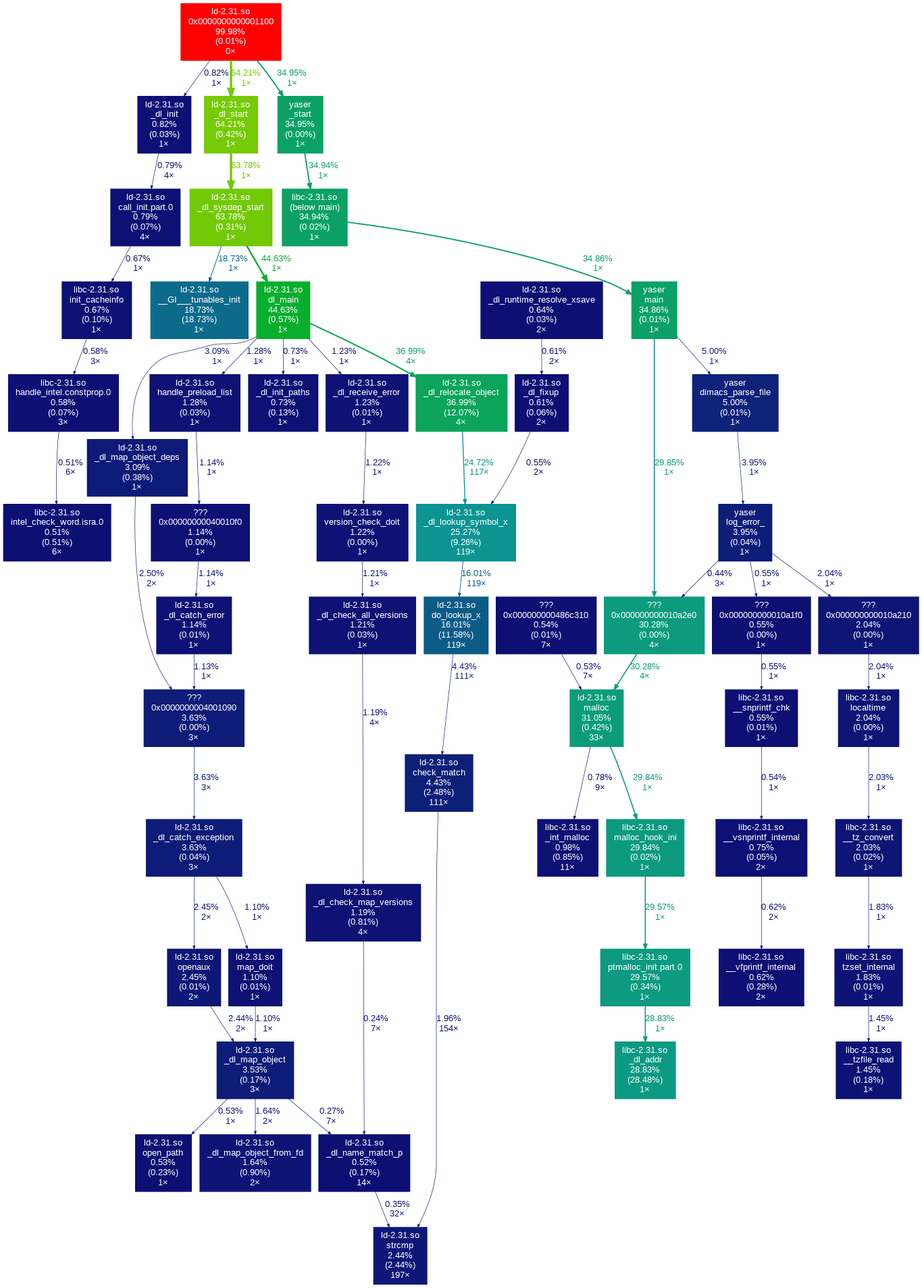
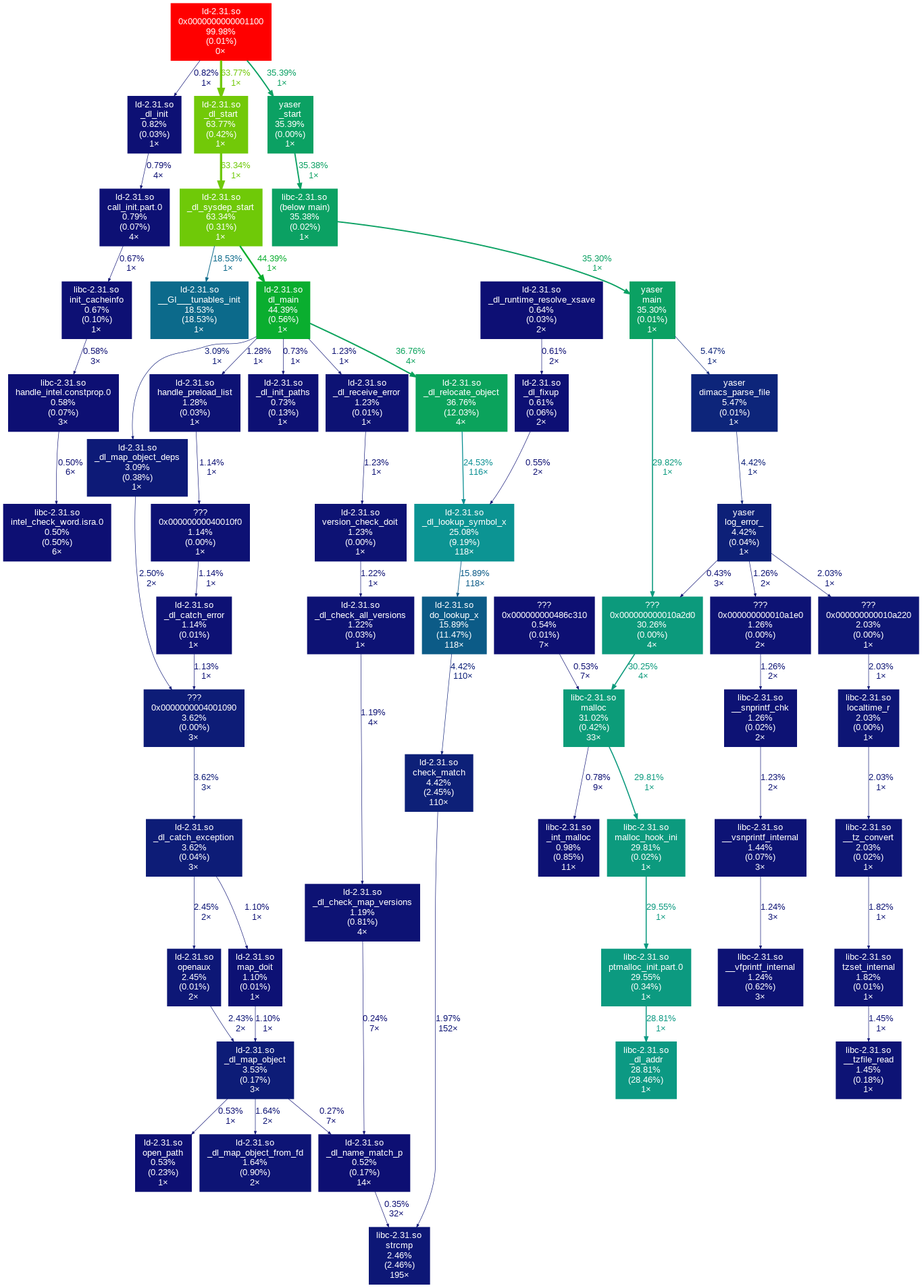
Deploying to gh-pages from @ marcluque/YASER@cb0e9e7d2bad5881278d2c95158c17a38d940cc0 🚀

diff --git a/searchindex.js b/searchindex.js
@@ -1,1 +1,1 @@
-Search.setIndex({docnames:["index","reports/address-sanitizer","reports/benchmark","reports/callgrind","reports/complexity","reports/gnu-profiler","reports/index","reports/memory-sanitizer","reports/ub-sanitizer","reports/unit-test","reports/valgrind-report"],envversion:{"sphinx.domains.c":2,"sphinx.domains.changeset":1,"sphinx.domains.citation":1,"sphinx.domains.cpp":4,"sphinx.domains.index":1,"sphinx.domains.javascript":2,"sphinx.domains.math":2,"sphinx.domains.python":3,"sphinx.domains.rst":2,"sphinx.domains.std":2,"sphinx.ext.intersphinx":1,"sphinx.ext.todo":2,"sphinx.ext.viewcode":1,sphinx:56},filenames:["index.rst","reports/address-sanitizer.rst","reports/benchmark.rst","reports/callgrind.rst","reports/complexity.rst","reports/gnu-profiler.rst","reports/index.rst","reports/memory-sanitizer.rst","reports/ub-sanitizer.rst","reports/unit-test.rst","reports/valgrind-report.rst"],objects:{},objnames:{},objtypes:{},terms:{"0":[1,3,4,7,10],"00":[1,3,8,10],"01":1,"02":1,"03":1,"04":1,"043":3,"05":1,"06":1,"07":1,"082":3,"0m":[3,8,10],"0x00000046ae8b":1,"0x0c187fff7fc0":1,"0x0c187fff7fd0":1,"0x0c187fff7fe0":1,"0x0c187fff7ff0":1,"0x0c187fff8000":1,"0x0c187fff8010":1,"0x0c187fff8020":1,"0x0c187fff8030":1,"0x0c187fff8040":1,"0x0c187fff8050":1,"0x0c187fff8060":1,"0x10d11b":10,"0x10d1ec":10,"0x10d85c":10,"0x1e24d":7,"0x270b2":[1,7],"0x41c2cd":1,"0x46ae8a":1,"0x483b7f3":10,"0x48dfb0d":10,"0x48ed195":10,"0x48ed459":10,"0x496aeab":10,"0x49752d":1,"0x4a4f040":10,"0x4c858c":1,"0x4c8633":1,"0x4cf8fd":1,"0x562862b5024d":7,"0x562862bcc58a":7,"0x562862bd2292":7,"0x60c000000040":1,"0x60c0000000c0":1,"0x708000000000":7,"0x7f1690cfe0b2":7,"0x7f63f01ac0b2":1,"0x7ffdf33ba7f0":1,"0x7ffdf33bb030":1,"1":[1,3,4,7,10],"10":[4,10],"11":[3,4,10],"12":4,"128":[1,10],"129":1,"13":[4,10],"136":3,"14":[3,4,8,10],"15":[3,10],"1504":3,"1547":3,"15946":3,"16":[1,4,7],"17":4,"18":4,"1840":1,"189":[3,10],"1895":7,"19":[4,8],"199":3,"2":[1,3,4,7,10],"20":[3,4],"2002":[3,10],"2017":[3,10],"21":[1,4],"2189":3,"23":4,"24":4,"25":4,"250":3,"250862":3,"27":4,"2798":3,"28":4,"280":3,"281":10,"29":4,"3":[1,3,4,7,10],"30":[3,4],"31":[3,4],"3102":10,"31merror":[3,8,10],"31mno":[3,8,10],"323":3,"33":4,"345":3,"35":[4,10],"36":[1,10],"3694":3,"37":4,"38":4,"4":[1,3,4],"40":4,"41":4,"414":4,"42":[3,4],"45":4,"457":3,"46":[3,4],"467":3,"47":4,"473":10,"48":10,"49":[1,7,10],"496":3,"5":[3,4,10],"50":4,"504":3,"51":3,"51136":3,"54":4,"547":3,"55":4,"56":3,"56775":3,"5883":3,"6":[1,3,4,7],"60":3,"603":3,"62":[3,4],"630":3,"64":3,"68":4,"693":3,"698":3,"7":4,"72":3,"721":3,"75":[4,10],"775":3,"798":3,"8":[1,3,4],"819":3,"82":[1,7,10],"86":10,"862":3,"88":4,"883":3,"9":[3,4],"946":3,"byte":[1,7,10],"return":1,For:[3,10],To:10,__fopen_intern:10,__interceptor_fopen:7,__libc_start_main:[1,7],_io_file_fopen:10,_io_file_open:10,_start:[1,7],abort:1,ac:1,address:[6,10],addresssanit:1,after:1,al:[3,10],all:10,alloc:[1,10],alloca:1,amd64:10,applic:1,ar:10,around:1,arrai:1,asan:1,assign:4,assignment_stack:4,assignment_stack_clear:4,assignment_stack_empti:4,assignment_stack_ful:4,assignment_stack_init:4,assignment_stack_pop:4,assignment_stack_push:4,assignment_stack_reset:4,assoc:3,averag:4,backtrack:4,bb:1,bc:3,bcm:3,bcp:4,behavior:6,benchmark:6,bi:3,bim:3,block:10,bp:1,branch:3,buffer:1,buggi:1,c:[1,3,4,7,8,10],ca:1,cach:3,call:3,callgrind:6,callgrind_control:3,cb:1,cc:1,check:10,check_watched_literal_partn:4,clause_literal_map:4,clause_literal_map_add:4,clause_literal_map_clear:4,clause_literal_map_get:4,clause_resolut:4,clause_resolution_build_resolv:4,cleanup:4,cleanup_al:4,collect:3,come:10,command:[3,10],comment:4,complex:6,cond:3,conflict:4,conflict_resolut:4,contain:1,context:10,control:3,cooki:1,copyright:[3,10],ct:4,d1:3,d1mr:3,d1mw:3,d:[3,10],data:3,decid:4,definit:10,detect:10,detector:10,dimacs_pars:[1,3,4,7,8,10],dimacs_parse_fil:[1,4,7,10],directori:[3,8,10],dlmr:3,dlmw:3,dpll:4,dr:3,dw:3,error:[1,10],et:[3,10],event:3,exit:[7,10],f1:1,f2:1,f3:1,f5:1,f6:1,f7:1,f8:1,f9:1,fa:1,fc:1,fd:1,fe:1,file:[3,4,8,10],filenam:10,fileop:10,find_new_liter:4,fopen:[1,10],formula:4,formula_clear:4,formula_init:4,found:[3,10],free:10,freed:1,from:10,full:10,gap:1,gcov:6,gener:3,glibc_2:10,global:[1,4],gnu:[1,3,6,7,10],gpl:[3,10],graph:3,h:[3,10],half:4,heap:[1,10],here:1,higher:4,highest:4,histogram:4,home:[1,7],i1:3,i1mr:3,i:3,il:4,ilmr:3,ind:3,indirectli:10,info:[3,10],init:[1,4],insid:[7,10],interact:3,intern:1,intra:1,iofopen:10,ir:3,its:3,josef:3,julian:10,kind:10,l3:3,leak:10,left:1,legend:1,lib:[1,7,10],libc:[1,7],libvex:[3,10],lin:4,line:4,line_s:3,linux:[1,7,10],list:10,liter:4,ll:3,lld:3,lli:3,ln:4,locat:1,log:4,log_debug_:4,log_error_:4,lost:10,main:[1,4,7,10],malloc:[1,10],memcheck:10,memori:[6,10],memorysanit:7,mid:1,mispr:3,mispredict:3,miss:3,name:4,nc:4,non:4,object:1,offset:7,one:1,open64:10,open:10,openat:10,order:1,origin:10,out:[1,7],overflow:1,param:10,pars:[1,4,7],parse_flag:4,partial:1,pc:1,point:10,pointer:10,poison:1,possibl:10,print_formula:4,proc:4,procedur:4,profil:[3,6],rang:4,rate:3,rd:3,reachabl:10,read:1,redzon:1,ref:3,region:1,repres:1,rerun:[3,10],resolve_conflict:4,resolvent_literal_table_add:4,resolvent_variable_table_clear:4,right:1,run:3,runner:[1,7],s:10,sanit:6,sat_clause_set:4,sat_clause_set_add:4,sat_clause_set_contain:4,sat_clause_set_exists_unsat:4,scope:1,score:4,see:10,seward:10,shadow:1,show:10,shown:10,simul:3,size:[1,10],so:[1,7,10],sp:1,specifi:3,src:[1,4,7],stack:1,still:10,summari:[1,7,10],suppress:10,syscal:10,t0:1,test:6,them:10,those:10,thread:1,total:10,total_s:3,track:10,undefin:6,uniniti:7,uninitialis:10,unit:6,unit_clause_stack:4,unit_clause_stack_clear:4,unit_clause_stack_empti:4,unit_clause_stack_ful:4,unit_clause_stack_init:4,unit_clause_stack_pop:4,unit_clause_stack_push:4,unit_clause_stack_reset:4,update_assign:4,us:[1,3,7,10],usag:10,user:1,usr:10,valgrind:[3,6],valu:[7,10],vgpreload_memcheck:10,wa:10,warn:[3,7],watch:4,watched_liter:4,watched_literal_clause_map:4,watched_literal_clause_map_add:4,watched_literal_clause_map_clear:4,watched_literal_clause_map_get:4,watched_literals_check:4,watched_literals_init:4,weidendorf:3,where:10,which:10,work:[1,7],wr:3,x86_64:[1,7,10],yaser:[1,3,7,8,10],ye:10},titles:["YASER\u2019s Documentation","Address Sanitizer","Benchmark","Callgrind","Complexity","GNU Profiler","Reports","Memory Sanitizer","Undefined Behavior Sanitizer","Unit Test","Valgrind"],titleterms:{address:1,behavior:8,benchmark:2,callgrind:3,complex:4,document:0,gnu:5,memori:7,profil:5,report:6,s:0,sanit:[1,7,8],test:9,undefin:8,unit:9,valgrind:10,yaser:0}})
+Search.setIndex({docnames:["index","reports/address-sanitizer","reports/benchmark","reports/callgrind","reports/complexity","reports/gnu-profiler","reports/index","reports/memory-sanitizer","reports/ub-sanitizer","reports/unit-test","reports/valgrind-report"],envversion:{"sphinx.domains.c":2,"sphinx.domains.changeset":1,"sphinx.domains.citation":1,"sphinx.domains.cpp":4,"sphinx.domains.index":1,"sphinx.domains.javascript":2,"sphinx.domains.math":2,"sphinx.domains.python":3,"sphinx.domains.rst":2,"sphinx.domains.std":2,"sphinx.ext.intersphinx":1,"sphinx.ext.todo":2,"sphinx.ext.viewcode":1,sphinx:56},filenames:["index.rst","reports/address-sanitizer.rst","reports/benchmark.rst","reports/callgrind.rst","reports/complexity.rst","reports/gnu-profiler.rst","reports/index.rst","reports/memory-sanitizer.rst","reports/ub-sanitizer.rst","reports/unit-test.rst","reports/valgrind-report.rst"],objects:{},objnames:{},objtypes:{},terms:{"0":[1,3,4,7,10],"00":1,"01":1,"02":1,"03":[1,8,10],"038":3,"04":[1,3],"040":3,"05":1,"06":1,"07":1,"090":3,"092":3,"0m":[3,8,10],"0x00000046ae7b":1,"0x0c187fff7fc0":1,"0x0c187fff7fd0":1,"0x0c187fff7fe0":1,"0x0c187fff7ff0":1,"0x0c187fff8000":1,"0x0c187fff8010":1,"0x0c187fff8020":1,"0x0c187fff8030":1,"0x0c187fff8040":1,"0x0c187fff8050":1,"0x0c187fff8060":1,"0x10d14f":10,"0x10d220":10,"0x10d8a5":10,"0x1e24d":7,"0x270b2":[1,7],"0x41c2bd":1,"0x46ae7a":1,"0x483b7f3":10,"0x48dfb0d":10,"0x48ed195":10,"0x48ed459":10,"0x496aeab":10,"0x49751d":1,"0x4a4f040":10,"0x4c857c":1,"0x4c8623":1,"0x4cf9fd":1,"0x56488ab7d24d":7,"0x56488abf958a":7,"0x56488abff3c2":7,"0x60c000000040":1,"0x60c0000000c0":1,"0x708000000000":7,"0x7f8a6bc0c0b2":1,"0x7fc7b8e500b2":7,"0x7fffd6a27230":1,"0x7fffd6a27a70":1,"1":[1,3,4,7,10],"10":[4,10],"106":3,"11":[3,4,10],"12":4,"128":[1,10],"129":1,"13":[4,10],"14":4,"15":[3,10],"1513":3,"1551":3,"16":[1,3,4,7,8,10],"16090":3,"17":4,"18":[3,4],"187":3,"1870":1,"1883":7,"189":10,"19":4,"2":[1,3,4,7,10],"20":4,"2002":[3,10],"2017":[3,10],"205":3,"21":[1,4],"2187":3,"23":4,"24":4,"25":4,"251":3,"251092":3,"27":4,"2793":3,"28":4,"281":10,"29":4,"3":[1,3,4,7,10],"30":4,"31":[4,8],"3113":10,"31merror":[3,8,10],"31mno":[3,8,10],"33":4,"331":3,"344":3,"35":4,"36":[1,10],"37":[3,4],"3745":3,"38":4,"4":[1,3,4],"40":4,"41":4,"414":4,"42":[3,4],"45":4,"46":4,"47":4,"473":10,"48":10,"485":3,"486":3,"489":3,"49":[1,7,10],"5":[3,4,10],"50":4,"51":3,"51038":3,"513":3,"523":3,"54":4,"55":4,"551":3,"56":3,"56804":3,"5901":3,"592":3,"6":[1,3,4,7],"60":3,"62":[3,4],"631":3,"64":3,"68":4,"696":3,"7":4,"700":3,"72":3,"736":3,"748":3,"75":[4,10],"793":3,"8":[1,3,4],"804":3,"818":3,"82":[1,7,10],"86":10,"88":4,"894":3,"9":[3,4],"901":3,"byte":[1,7,10],"return":1,For:[3,10],To:10,__fopen_intern:10,__interceptor_fopen:7,__libc_start_main:[1,7],_io_file_fopen:10,_io_file_open:10,_start:[1,7],abort:1,ac:1,address:[6,10],addresssanit:1,after:1,al:[3,10],all:10,alloc:[1,10],alloca:1,amd64:10,applic:1,ar:10,around:1,arrai:1,asan:1,assign:4,assignment_stack:4,assignment_stack_clear:4,assignment_stack_empti:4,assignment_stack_ful:4,assignment_stack_init:4,assignment_stack_pop:4,assignment_stack_push:4,assignment_stack_reset:4,assoc:3,averag:4,backtrack:4,bb:1,bc:3,bcm:3,bcp:4,behavior:6,benchmark:6,bi:3,bim:3,block:10,bp:1,branch:3,buffer:1,buggi:1,c:[1,3,4,7,8,10],ca:1,cach:3,call:3,callgrind:6,callgrind_control:3,cb:1,cc:1,check:10,check_watched_literal_partn:4,clause_literal_map:4,clause_literal_map_add:4,clause_literal_map_clear:4,clause_literal_map_get:4,clause_resolut:4,clause_resolution_build_resolv:4,cleanup:4,cleanup_al:4,collect:3,come:10,command:[3,10],comment:4,complex:6,cond:3,conflict:4,conflict_resolut:4,contain:1,context:10,control:3,cooki:1,copyright:[3,10],ct:4,d1:3,d1mr:3,d1mw:3,d:[3,10],data:3,decid:4,definit:10,detect:10,detector:10,dimacs_pars:[1,3,4,7,8,10],dimacs_parse_fil:[1,4,7,10],directori:[3,8,10],dlmr:3,dlmw:3,dpll:4,dr:3,dw:3,error:[1,10],et:[3,10],event:3,exit:[7,10],f1:1,f2:1,f3:1,f5:1,f6:1,f7:1,f8:1,f9:1,fa:1,fc:1,fd:1,fe:1,file:[3,4,8,10],filenam:10,fileop:10,find_new_liter:4,fopen:[1,10],formula:4,formula_clear:4,formula_init:4,found:[3,10],free:10,freed:1,from:10,full:10,gap:1,gcov:6,gener:3,glibc_2:10,global:[1,4],gnu:[1,3,6,7,10],gpl:[3,10],graph:3,h:[3,10],half:4,heap:[1,10],here:1,higher:4,highest:4,histogram:4,home:[1,7],i1:3,i1mr:3,i:3,il:4,ilmr:3,ind:3,indirectli:10,info:[3,10],init:[1,4],insid:[7,10],interact:3,intern:1,intra:1,iofopen:10,ir:3,its:3,josef:3,julian:10,kind:10,l3:3,leak:10,left:1,legend:1,lib:[1,7,10],libc:[1,7],libvex:[3,10],lin:4,line:4,line_s:3,linux:[1,7,10],list:10,liter:4,ll:3,lld:3,lli:3,ln:4,locat:1,log:4,log_debug_:4,log_error_:4,lost:10,main:[1,4,7,10],malloc:[1,10],memcheck:10,memori:[6,10],memorysanit:7,mid:1,mispr:3,mispredict:3,miss:3,name:4,nc:4,non:4,object:1,offset:7,one:1,open64:10,open:10,openat:10,order:1,origin:10,out:[1,7],overflow:1,param:10,pars:[1,4,7],parse_flag:4,partial:1,pc:1,point:10,pointer:10,poison:1,possibl:10,print_formula:4,proc:4,procedur:4,profil:[3,6],rang:4,rate:3,rd:3,reachabl:10,read:1,redzon:1,ref:3,region:1,repres:1,rerun:[3,10],resolve_conflict:4,resolvent_literal_table_add:4,resolvent_variable_table_clear:4,right:1,run:3,runner:[1,7],s:10,sanit:6,sat_clause_set:4,sat_clause_set_add:4,sat_clause_set_contain:4,sat_clause_set_exists_unsat:4,scope:1,score:4,see:10,seward:10,shadow:1,show:10,shown:10,simul:3,size:[1,10],so:[1,7,10],sp:1,specifi:3,src:[1,4,7],stack:1,still:10,summari:[1,7,10],suppress:10,syscal:10,t0:1,test:6,them:10,those:10,thread:1,total:10,total_s:3,track:10,undefin:6,uniniti:7,uninitialis:10,unit:6,unit_clause_stack:4,unit_clause_stack_clear:4,unit_clause_stack_empti:4,unit_clause_stack_ful:4,unit_clause_stack_init:4,unit_clause_stack_pop:4,unit_clause_stack_push:4,unit_clause_stack_reset:4,update_assign:4,us:[1,3,7,10],usag:10,user:1,usr:10,valgrind:[3,6],valu:[7,10],vgpreload_memcheck:10,wa:10,warn:[3,7],watch:4,watched_liter:4,watched_literal_clause_map:4,watched_literal_clause_map_add:4,watched_literal_clause_map_clear:4,watched_literal_clause_map_get:4,watched_literals_check:4,watched_literals_init:4,weidendorf:3,where:10,which:10,work:[1,7],wr:3,x86_64:[1,7,10],yaser:[1,3,7,8,10],ye:10},titles:["YASER\u2019s Documentation","Address Sanitizer","Benchmark","Callgrind","Complexity","GNU Profiler","Reports","Memory Sanitizer","Undefined Behavior Sanitizer","Unit Test","Valgrind"],titleterms:{address:1,behavior:8,benchmark:2,callgrind:3,complex:4,document:0,gnu:5,memori:7,profil:5,report:6,s:0,sanit:[1,7,8],test:9,undefin:8,unit:9,valgrind:10,yaser:0}})

diff --git a/reports/address-sanitizer.html b/reports/address-sanitizer.html
@@ -81,21 +81,21 @@
   <section id="address-sanitizer">
 <span id="reports-address-san"></span><h1>Address Sanitizer<a class="headerlink" href="#address-sanitizer" title="Permalink to this headline"></a></h1>
 <div class="highlight-C notranslate"><div class="highlight"><pre><span></span><span class="o">=================================================================</span>
-<span class="o">==</span><span class="mi">1840</span><span class="o">==</span><span class="nl">ERROR</span><span class="p">:</span> <span class="nl">AddressSanitizer</span><span class="p">:</span> <span class="n">heap</span><span class="o">-</span><span class="n">buffer</span><span class="o">-</span><span class="n">overflow</span> <span class="n">on</span> <span class="n">address</span> <span class="mh">0x60c0000000c0</span> <span class="n">at</span> <span class="n">pc</span> <span class="mh">0x00000046ae8b</span> <span class="n">bp</span> <span class="mh">0x7ffdf33bb030</span> <span class="n">sp</span> <span class="mh">0x7ffdf33ba7f0</span>
+<span class="o">==</span><span class="mi">1870</span><span class="o">==</span><span class="nl">ERROR</span><span class="p">:</span> <span class="nl">AddressSanitizer</span><span class="p">:</span> <span class="n">heap</span><span class="o">-</span><span class="n">buffer</span><span class="o">-</span><span class="n">overflow</span> <span class="n">on</span> <span class="n">address</span> <span class="mh">0x60c0000000c0</span> <span class="n">at</span> <span class="n">pc</span> <span class="mh">0x00000046ae7b</span> <span class="n">bp</span> <span class="mh">0x7fffd6a27a70</span> <span class="n">sp</span> <span class="mh">0x7fffd6a27230</span>
 <span class="n">READ</span> <span class="n">of</span> <span class="n">size</span> <span class="mi">129</span> <span class="n">at</span> <span class="mh">0x60c0000000c0</span> <span class="kr">thread</span> <span class="n">T0</span>
-    <span class="cp">#0 0x46ae8a in fopen (/home/runner/work/YASER/YASER/a.out+0x46ae8a)</span>
-    <span class="cp">#1 0x4cf8fd in dimacs_parse_file /home/runner/work/YASER/YASER/./src/parsing/dimacs_parser.c:82:16</span>
-    <span class="cp">#2 0x4c8633 in main /home/runner/work/YASER/YASER/./src/main.c:49:3</span>
-    <span class="cp">#3 0x7f63f01ac0b2 in __libc_start_main (/lib/x86_64-linux-gnu/libc.so.6+0x270b2)</span>
-    <span class="cp">#4 0x41c2cd in _start (/home/runner/work/YASER/YASER/a.out+0x41c2cd)</span>
+    <span class="cp">#0 0x46ae7a in fopen (/home/runner/work/YASER/YASER/a.out+0x46ae7a)</span>
+    <span class="cp">#1 0x4cf9fd in dimacs_parse_file /home/runner/work/YASER/YASER/./src/parsing/dimacs_parser.c:82:16</span>
+    <span class="cp">#2 0x4c8623 in main /home/runner/work/YASER/YASER/./src/main.c:49:3</span>
+    <span class="cp">#3 0x7f8a6bc0c0b2 in __libc_start_main (/lib/x86_64-linux-gnu/libc.so.6+0x270b2)</span>
+    <span class="cp">#4 0x41c2bd in _start (/home/runner/work/YASER/YASER/a.out+0x41c2bd)</span>
 
 <span class="mh">0x60c0000000c0</span> <span class="n">is</span> <span class="n">located</span> <span class="mi">0</span> <span class="n">bytes</span> <span class="n">to</span> <span class="n">the</span> <span class="n">right</span> <span class="n">of</span> <span class="mi">128</span><span class="o">-</span><span class="n">byte</span> <span class="n">region</span> <span class="p">[</span><span class="mh">0x60c000000040</span><span class="p">,</span><span class="mh">0x60c0000000c0</span><span class="p">)</span>
 <span class="n">allocated</span> <span class="n">by</span> <span class="kr">thread</span> <span class="n">T0</span> <span class="nl">here</span><span class="p">:</span>
-    <span class="cp">#0 0x49752d in malloc (/home/runner/work/YASER/YASER/a.out+0x49752d)</span>
-    <span class="cp">#1 0x4c858c in main /home/runner/work/YASER/YASER/./src/main.c:36:21</span>
-    <span class="cp">#2 0x7f63f01ac0b2 in __libc_start_main (/lib/x86_64-linux-gnu/libc.so.6+0x270b2)</span>
+    <span class="cp">#0 0x49751d in malloc (/home/runner/work/YASER/YASER/a.out+0x49751d)</span>
+    <span class="cp">#1 0x4c857c in main /home/runner/work/YASER/YASER/./src/main.c:36:21</span>
+    <span class="cp">#2 0x7f8a6bc0c0b2 in __libc_start_main (/lib/x86_64-linux-gnu/libc.so.6+0x270b2)</span>
 
-<span class="nl">SUMMARY</span><span class="p">:</span> <span class="nl">AddressSanitizer</span><span class="p">:</span> <span class="n">heap</span><span class="o">-</span><span class="n">buffer</span><span class="o">-</span><span class="n">overflow</span> <span class="p">(</span><span class="o">/</span><span class="n">home</span><span class="o">/</span><span class="n">runner</span><span class="o">/</span><span class="n">work</span><span class="o">/</span><span class="n">YASER</span><span class="o">/</span><span class="n">YASER</span><span class="o">/</span><span class="n">a</span><span class="p">.</span><span class="n">out</span><span class="o">+</span><span class="mh">0x46ae8a</span><span class="p">)</span> <span class="n">in</span> <span class="n">fopen</span>
+<span class="nl">SUMMARY</span><span class="p">:</span> <span class="nl">AddressSanitizer</span><span class="p">:</span> <span class="n">heap</span><span class="o">-</span><span class="n">buffer</span><span class="o">-</span><span class="n">overflow</span> <span class="p">(</span><span class="o">/</span><span class="n">home</span><span class="o">/</span><span class="n">runner</span><span class="o">/</span><span class="n">work</span><span class="o">/</span><span class="n">YASER</span><span class="o">/</span><span class="n">YASER</span><span class="o">/</span><span class="n">a</span><span class="p">.</span><span class="n">out</span><span class="o">+</span><span class="mh">0x46ae7a</span><span class="p">)</span> <span class="n">in</span> <span class="n">fopen</span>
 <span class="n">Shadow</span> <span class="n">bytes</span> <span class="n">around</span> <span class="n">the</span> <span class="n">buggy</span> <span class="nl">address</span><span class="p">:</span>
   <span class="mh">0x0c187fff7fc0</span><span class="o">:</span> <span class="mo">00</span> <span class="mo">00</span> <span class="mo">00</span> <span class="mo">00</span> <span class="mo">00</span> <span class="mo">00</span> <span class="mo">00</span> <span class="mo">00</span> <span class="mo">00</span> <span class="mo">00</span> <span class="mo">00</span> <span class="mo">00</span> <span class="mo">00</span> <span class="mo">00</span> <span class="mo">00</span> <span class="mo">00</span>
   <span class="mh">0x0c187fff7fd0</span><span class="o">:</span> <span class="mo">00</span> <span class="mo">00</span> <span class="mo">00</span> <span class="mo">00</span> <span class="mo">00</span> <span class="mo">00</span> <span class="mo">00</span> <span class="mo">00</span> <span class="mo">00</span> <span class="mo">00</span> <span class="mo">00</span> <span class="mo">00</span> <span class="mo">00</span> <span class="mo">00</span> <span class="mo">00</span> <span class="mo">00</span>
@@ -128,7 +128,7 @@
   <span class="n">Left</span> <span class="n">alloca</span> <span class="nl">redzone</span><span class="p">:</span>     <span class="n">ca</span>
   <span class="n">Right</span> <span class="n">alloca</span> <span class="nl">redzone</span><span class="p">:</span>    <span class="n">cb</span>
   <span class="n">Shadow</span> <span class="nl">gap</span><span class="p">:</span>              <span class="n">cc</span>
-<span class="o">==</span><span class="mi">1840</span><span class="o">==</span><span class="n">ABORTING</span>
+<span class="o">==</span><span class="mi">1870</span><span class="o">==</span><span class="n">ABORTING</span>
 </pre></div>
 </div>
 </section>

diff --git a/reports/valgrind-report.html b/reports/valgrind-report.html
@@ -79,41 +79,41 @@
              
   <section id="valgrind">
 <span id="reports-valgrind"></span><h1>Valgrind<a class="headerlink" href="#valgrind" title="Permalink to this headline"></a></h1>
-<div class="highlight-C notranslate"><div class="highlight"><pre><span></span>==3102== Memcheck, a memory error detector
-==3102== Copyright (C) 2002-2017, and GNU GPL&#39;d, by Julian Seward et al.
-==3102== Using Valgrind-3.15.0 and LibVEX; rerun with -h for copyright info
-==3102== Command: ./yaser
-==3102== 
-==3102== Syscall param openat(filename) points to uninitialised byte(s)
-==3102==    at 0x496AEAB: open (open64.c:48)
-==3102==    by 0x48ED195: _IO_file_open (fileops.c:189)
-==3102==    by 0x48ED459: _IO_file_fopen@@GLIBC_2.2.5 (fileops.c:281)
-==3102==    by 0x48DFB0D: __fopen_internal (iofopen.c:75)
-==3102==    by 0x48DFB0D: fopen@@GLIBC_2.2.5 (iofopen.c:86)
-==3102==    by 0x10D85C: dimacs_parse_file (dimacs_parser.c:82)
-==3102==    by 0x10D1EC: main (main.c:49)
-==3102==  Address 0x4a4f040 is 0 bytes inside a block of size 128 alloc&#39;d
-==3102==    at 0x483B7F3: malloc (in /usr/lib/x86_64-linux-gnu/valgrind/vgpreload_memcheck-amd64-linux.so)
-==3102==    by 0x10D11B: main (main.c:36)
-==3102== 
-[14:00:35][YASER - [31mERROR[0m][dimacs_parser.c]: [31mNo such file or directory[0m
-==3102== 
-==3102== HEAP SUMMARY:
-==3102==     in use at exit: 128 bytes in 1 blocks
-==3102==   total heap usage: 11 allocs, 10 frees, 13,473 bytes allocated
-==3102== 
-==3102== LEAK SUMMARY:
-==3102==    definitely lost: 0 bytes in 0 blocks
-==3102==    indirectly lost: 0 bytes in 0 blocks
-==3102==      possibly lost: 0 bytes in 0 blocks
-==3102==    still reachable: 128 bytes in 1 blocks
-==3102==         suppressed: 0 bytes in 0 blocks
-==3102== Reachable blocks (those to which a pointer was found) are not shown.
-==3102== To see them, rerun with: --leak-check=full --show-leak-kinds=all
-==3102== 
-==3102== Use --track-origins=yes to see where uninitialised values come from
-==3102== For lists of detected and suppressed errors, rerun with: -s
-==3102== ERROR SUMMARY: 1 errors from 1 contexts (suppressed: 0 from 0)
+<div class="highlight-C notranslate"><div class="highlight"><pre><span></span>==3113== Memcheck, a memory error detector
+==3113== Copyright (C) 2002-2017, and GNU GPL&#39;d, by Julian Seward et al.
+==3113== Using Valgrind-3.15.0 and LibVEX; rerun with -h for copyright info
+==3113== Command: ./yaser
+==3113== 
+==3113== Syscall param openat(filename) points to uninitialised byte(s)
+==3113==    at 0x496AEAB: open (open64.c:48)
+==3113==    by 0x48ED195: _IO_file_open (fileops.c:189)
+==3113==    by 0x48ED459: _IO_file_fopen@@GLIBC_2.2.5 (fileops.c:281)
+==3113==    by 0x48DFB0D: __fopen_internal (iofopen.c:75)
+==3113==    by 0x48DFB0D: fopen@@GLIBC_2.2.5 (iofopen.c:86)
+==3113==    by 0x10D8A5: dimacs_parse_file (dimacs_parser.c:82)
+==3113==    by 0x10D220: main (main.c:49)
+==3113==  Address 0x4a4f040 is 0 bytes inside a block of size 128 alloc&#39;d
+==3113==    at 0x483B7F3: malloc (in /usr/lib/x86_64-linux-gnu/valgrind/vgpreload_memcheck-amd64-linux.so)
+==3113==    by 0x10D14F: main (main.c:36)
+==3113== 
+[16:03:48][YASER - [31mERROR[0m][dimacs_parser.c]: [31mNo such file or directory[0m
+==3113== 
+==3113== HEAP SUMMARY:
+==3113==     in use at exit: 128 bytes in 1 blocks
+==3113==   total heap usage: 11 allocs, 10 frees, 13,473 bytes allocated
+==3113== 
+==3113== LEAK SUMMARY:
+==3113==    definitely lost: 0 bytes in 0 blocks
+==3113==    indirectly lost: 0 bytes in 0 blocks
+==3113==      possibly lost: 0 bytes in 0 blocks
+==3113==    still reachable: 128 bytes in 1 blocks
+==3113==         suppressed: 0 bytes in 0 blocks
+==3113== Reachable blocks (those to which a pointer was found) are not shown.
+==3113== To see them, rerun with: --leak-check=full --show-leak-kinds=all
+==3113== 
+==3113== Use --track-origins=yes to see where uninitialised values come from
+==3113== For lists of detected and suppressed errors, rerun with: -s
+==3113== ERROR SUMMARY: 1 errors from 1 contexts (suppressed: 0 from 0)
 </pre></div>
 </div>
 </section>

diff --git a/reports/callgrind.html b/reports/callgrind.html
@@ -80,39 +80,39 @@
              
   <section id="callgrind">
 <span id="reports-callgrind"></span><h1>Callgrind<a class="headerlink" href="#callgrind" title="Permalink to this headline"></a></h1>
-<div class="highlight-C notranslate"><div class="highlight"><pre><span></span>==3694== Callgrind, a call-graph generating cache profiler
-==3694== Copyright (C) 2002-2017, and GNU GPL&#39;d, by Josef Weidendorfer et al.
-==3694== Using Valgrind-3.15.0 and LibVEX; rerun with -h for copyright info
-==3694== Command: ./yaser
-==3694== 
---3694-- warning: L3 cache found, using its data for the LL simulation.
---3694-- warning: specified LL cache: line_size 64  assoc 20  total_size 31,457,280
---3694-- warning: simulated LL cache: line_size 64  assoc 30  total_size 31,457,280
-==3694== For interactive control, run &#39;callgrind_control -h&#39;.
-[14:00:46][YASER - [31mERROR[0m][dimacs_parser.c]: [31mNo such file or directory[0m
-==3694== 
-==3694== Events    : Ir Dr Dw I1mr D1mr D1mw ILmr DLmr DLmw Bc Bcm Bi Bim
-==3694== Collected : 250862 56775 15946 1547 2798 698 1504 2189 630 51136 5883 467 199
-==3694== 
-==3694== I   refs:      250,862
-==3694== I1  misses:      1,547
-==3694== LLi misses:      1,504
-==3694== I1  miss rate:    0.62%
-==3694== LLi miss rate:    0.60%
-==3694== 
-==3694== D   refs:       72,721  (56,775 rd + 15,946 wr)
-==3694== D1  misses:      3,496  ( 2,798 rd +    698 wr)
-==3694== LLd misses:      2,819  ( 2,189 rd +    630 wr)
-==3694== D1  miss rate:     4.8% (   4.9%   +    4.4%  )
-==3694== LLd miss rate:     3.9% (   3.9%   +    4.0%  )
-==3694== 
-==3694== LL refs:         5,043  ( 4,345 rd +    698 wr)
-==3694== LL misses:       4,323  ( 3,693 rd +    630 wr)
-==3694== LL miss rate:      1.3% (   1.2%   +    4.0%  )
-==3694== 
-==3694== Branches:       51,603  (51,136 cond +    467 ind)
-==3694== Mispredicts:     6,082  ( 5,883 cond +    199 ind)
-==3694== Mispred rate:     11.8% (  11.5%     +   42.6%   )
+<div class="highlight-C notranslate"><div class="highlight"><pre><span></span>==3745== Callgrind, a call-graph generating cache profiler
+==3745== Copyright (C) 2002-2017, and GNU GPL&#39;d, by Josef Weidendorfer et al.
+==3745== Using Valgrind-3.15.0 and LibVEX; rerun with -h for copyright info
+==3745== Command: ./yaser
+==3745== 
+--3745-- warning: L3 cache found, using its data for the LL simulation.
+--3745-- warning: specified LL cache: line_size 64  assoc 11  total_size 37,486,592
+--3745-- warning: simulated LL cache: line_size 64  assoc 18  total_size 37,748,736
+==3745== For interactive control, run &#39;callgrind_control -h&#39;.
+[16:04:04][YASER - [31mERROR[0m][dimacs_parser.c]: [31mNo such file or directory[0m
+==3745== 
+==3745== Events    : Ir Dr Dw I1mr D1mr D1mw ILmr DLmr DLmw Bc Bcm Bi Bim
+==3745== Collected : 251092 56804 16090 1551 2793 696 1513 2187 631 51038 5901 485 205
+==3745== 
+==3745== I   refs:      251,092
+==3745== I1  misses:      1,551
+==3745== LLi misses:      1,513
+==3745== I1  miss rate:    0.62%
+==3745== LLi miss rate:    0.60%
+==3745== 
+==3745== D   refs:       72,894  (56,804 rd + 16,090 wr)
+==3745== D1  misses:      3,489  ( 2,793 rd +    696 wr)
+==3745== LLd misses:      2,818  ( 2,187 rd +    631 wr)
+==3745== D1  miss rate:     4.8% (   4.9%   +    4.3%  )
+==3745== LLd miss rate:     3.9% (   3.9%   +    3.9%  )
+==3745== 
+==3745== LL refs:         5,040  ( 4,344 rd +    696 wr)
+==3745== LL misses:       4,331  ( 3,700 rd +    631 wr)
+==3745== LL miss rate:      1.3% (   1.2%   +    3.9%  )
+==3745== 
+==3745== Branches:       51,523  (51,038 cond +    485 ind)
+==3745== Mispredicts:     6,106  ( 5,901 cond +    205 ind)
+==3745== Mispred rate:     11.9% (  11.6%     +   42.3%   )
 </pre></div>
 </div>
 <img alt="gprof report" src="../_images/callgrind-report.png" />

diff --git a/reports/memory-sanitizer.html b/reports/memory-sanitizer.html
@@ -81,11 +81,11 @@
   <section id="memory-sanitizer">
 <span id="reports-memory-san"></span><h1>Memory Sanitizer<a class="headerlink" href="#memory-sanitizer" title="Permalink to this headline"></a></h1>
 <div class="highlight-C notranslate"><div class="highlight"><pre><span></span><span class="n">Uninitialized</span> <span class="n">bytes</span> <span class="n">in</span> <span class="n">__interceptor_fopen</span> <span class="n">at</span> <span class="n">offset</span> <span class="mi">0</span> <span class="n">inside</span> <span class="p">[</span><span class="mh">0x708000000000</span><span class="p">,</span> <span class="mi">1</span><span class="p">)</span>
-<span class="o">==</span><span class="mi">1895</span><span class="o">==</span><span class="nl">WARNING</span><span class="p">:</span> <span class="nl">MemorySanitizer</span><span class="p">:</span> <span class="n">use</span><span class="o">-</span><span class="n">of</span><span class="o">-</span><span class="n">uninitialized</span><span class="o">-</span><span class="n">value</span>
-    <span class="cp">#0 0x562862bd2292 in dimacs_parse_file /home/runner/work/YASER/YASER/./src/parsing/dimacs_parser.c:82:16</span>
-    <span class="cp">#1 0x562862bcc58a in main /home/runner/work/YASER/YASER/./src/main.c:49:3</span>
-    <span class="cp">#2 0x7f1690cfe0b2 in __libc_start_main (/lib/x86_64-linux-gnu/libc.so.6+0x270b2)</span>
-    <span class="cp">#3 0x562862b5024d in _start (/home/runner/work/YASER/YASER/a.out+0x1e24d)</span>
+<span class="o">==</span><span class="mi">1883</span><span class="o">==</span><span class="nl">WARNING</span><span class="p">:</span> <span class="nl">MemorySanitizer</span><span class="p">:</span> <span class="n">use</span><span class="o">-</span><span class="n">of</span><span class="o">-</span><span class="n">uninitialized</span><span class="o">-</span><span class="n">value</span>
+    <span class="cp">#0 0x56488abff3c2 in dimacs_parse_file /home/runner/work/YASER/YASER/./src/parsing/dimacs_parser.c:82:16</span>
+    <span class="cp">#1 0x56488abf958a in main /home/runner/work/YASER/YASER/./src/main.c:49:3</span>
+    <span class="cp">#2 0x7fc7b8e500b2 in __libc_start_main (/lib/x86_64-linux-gnu/libc.so.6+0x270b2)</span>
+    <span class="cp">#3 0x56488ab7d24d in _start (/home/runner/work/YASER/YASER/a.out+0x1e24d)</span>
 
 <span class="nl">SUMMARY</span><span class="p">:</span> <span class="nl">MemorySanitizer</span><span class="p">:</span> <span class="n">use</span><span class="o">-</span><span class="n">of</span><span class="o">-</span><span class="n">uninitialized</span><span class="o">-</span><span class="n">value</span> <span class="o">/</span><span class="n">home</span><span class="o">/</span><span class="n">runner</span><span class="o">/</span><span class="n">work</span><span class="o">/</span><span class="n">YASER</span><span class="o">/</span><span class="n">YASER</span><span class="o">/</span><span class="p">.</span><span class="o">/</span><span class="n">src</span><span class="o">/</span><span class="n">parsing</span><span class="o">/</span><span class="n">dimacs_parser</span><span class="p">.</span><span class="nl">c</span><span class="p">:</span><span class="mi">82</span><span class="o">:</span><span class="mi">16</span> <span class="n">in</span> <span class="n">dimacs_parse_file</span>
 <span class="n">Exiting</span>

diff --git a/reports/ub-sanitizer.html b/reports/ub-sanitizer.html
@@ -80,7 +80,7 @@
              
   <section id="undefined-behavior-sanitizer">
 <span id="reports-ub-san"></span><h1>Undefined Behavior Sanitizer<a class="headerlink" href="#undefined-behavior-sanitizer" title="Permalink to this headline"></a></h1>
-<div class="highlight-C notranslate"><div class="highlight"><pre><span></span>[14:00:19][YASER - [31mERROR[0m][dimacs_parser.c]: [31mNo such file or directory[0m
+<div class="highlight-C notranslate"><div class="highlight"><pre><span></span>[16:03:31][YASER - [31mERROR[0m][dimacs_parser.c]: [31mNo such file or directory[0m
 </pre></div>
 </div>
 </section>
